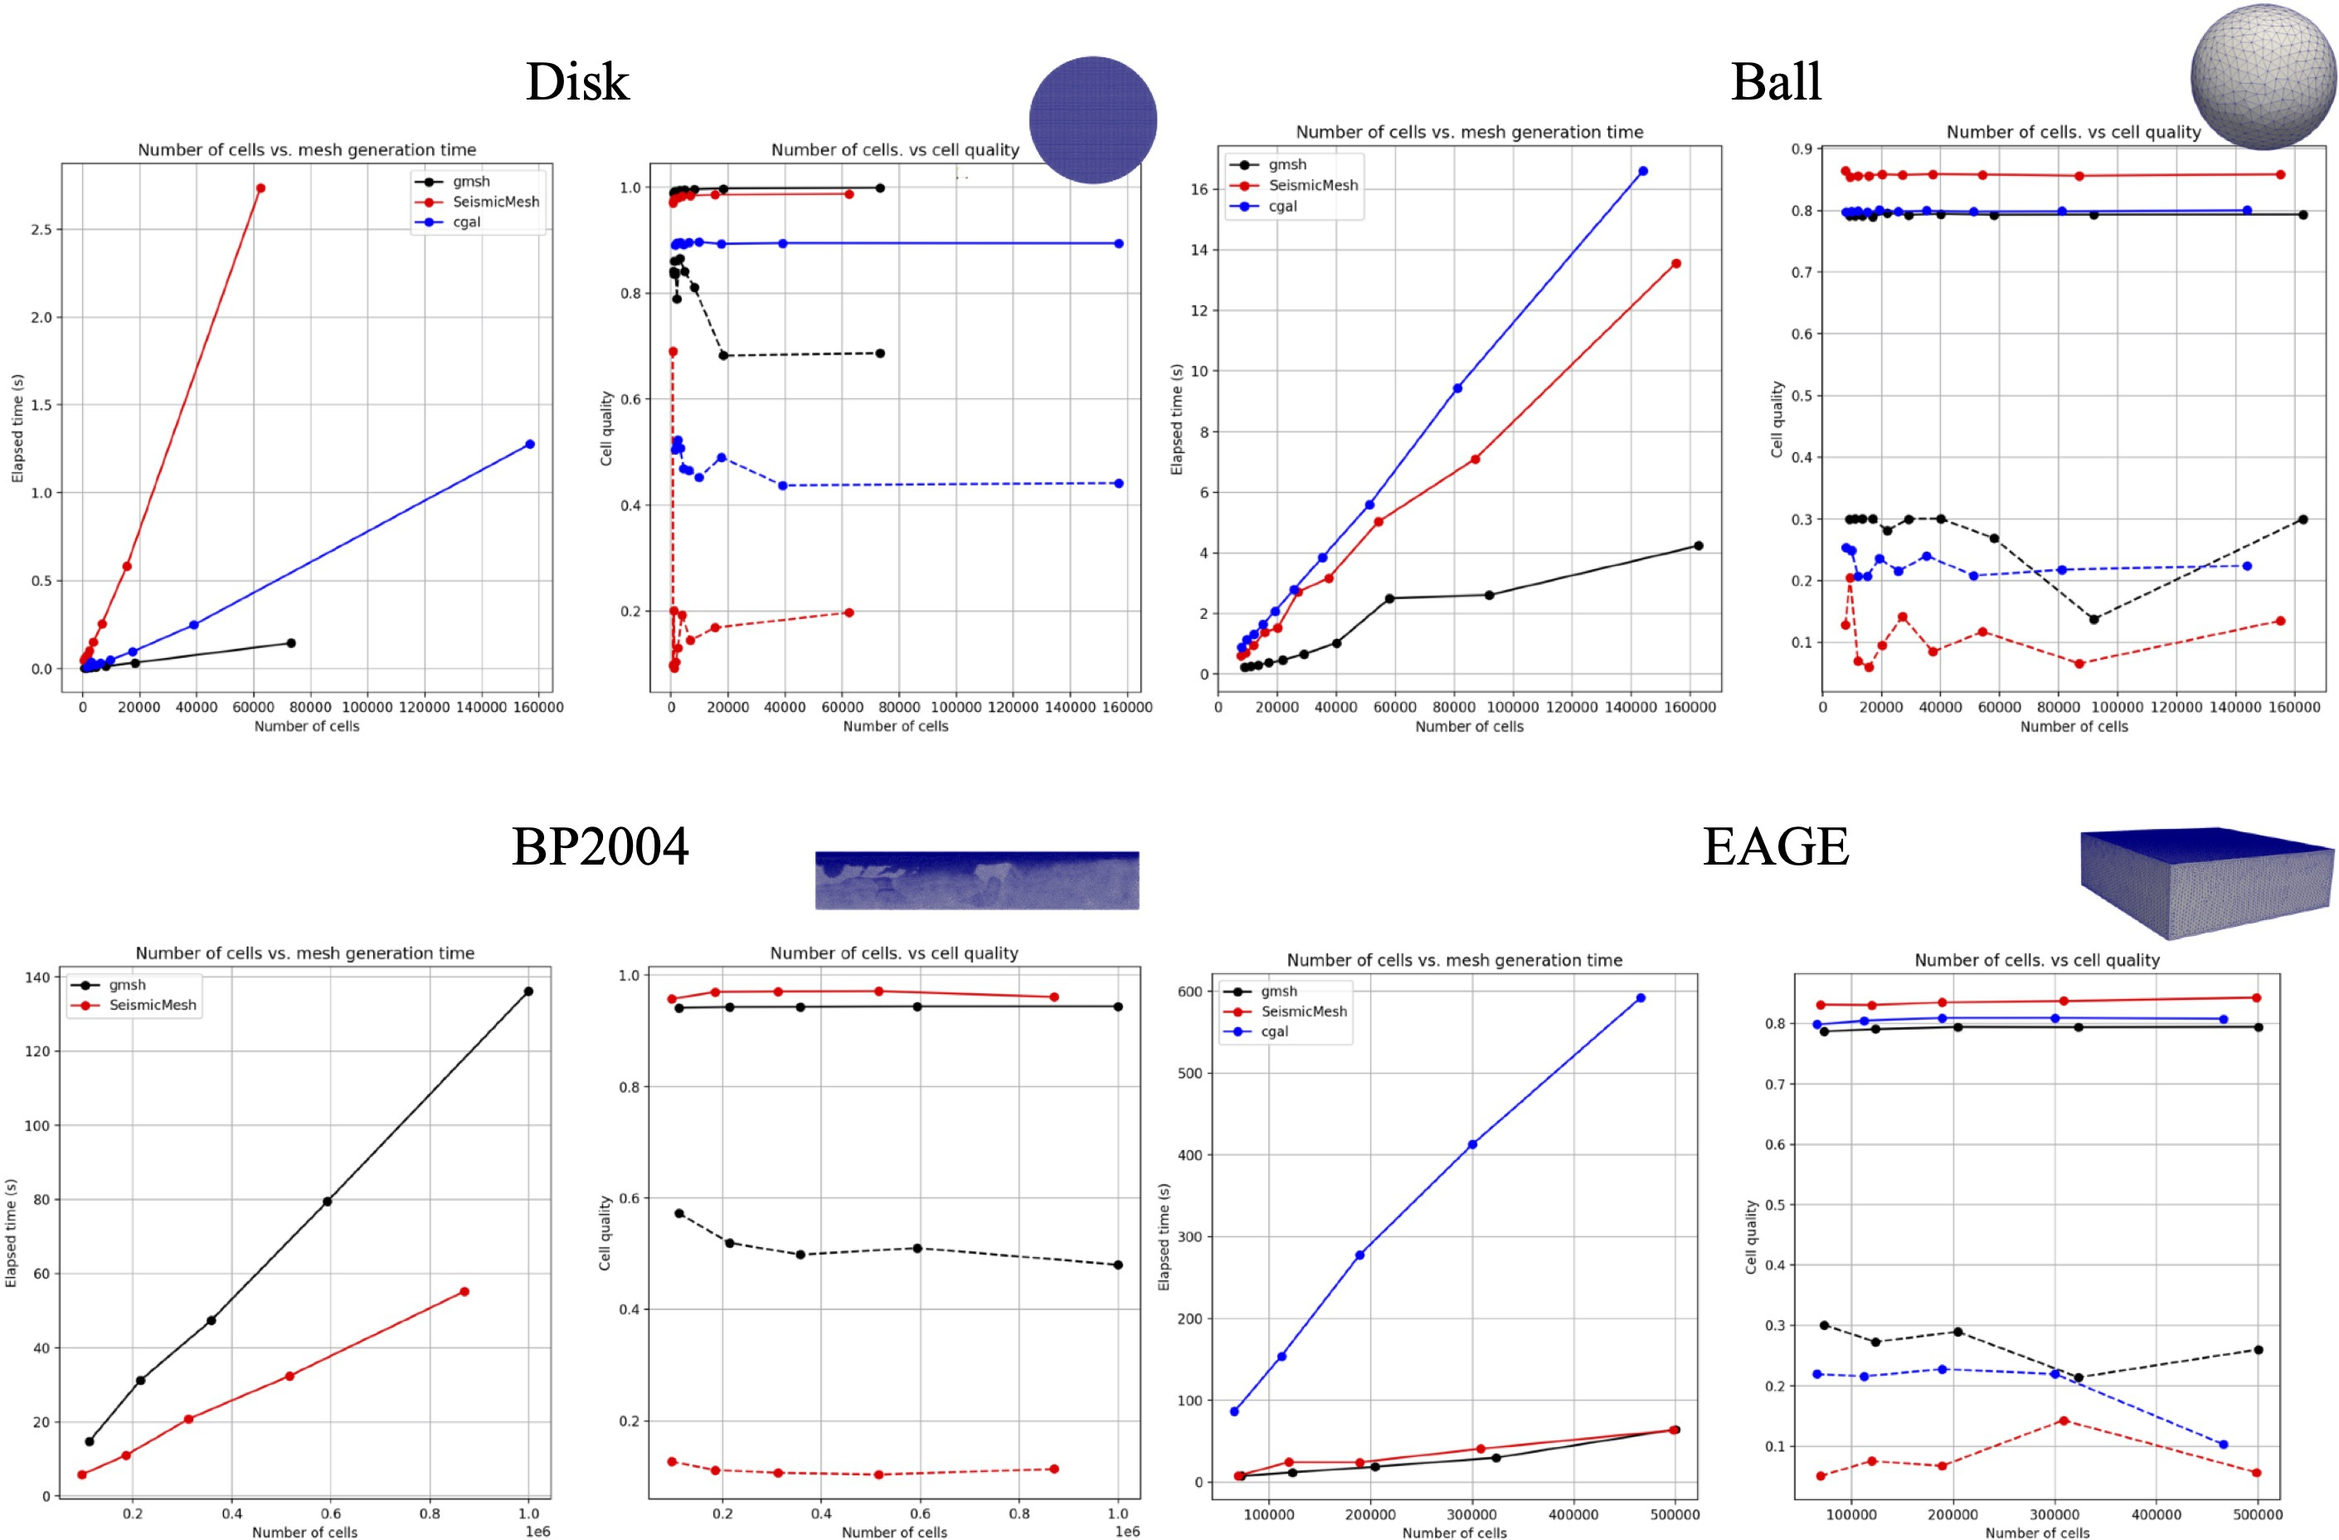
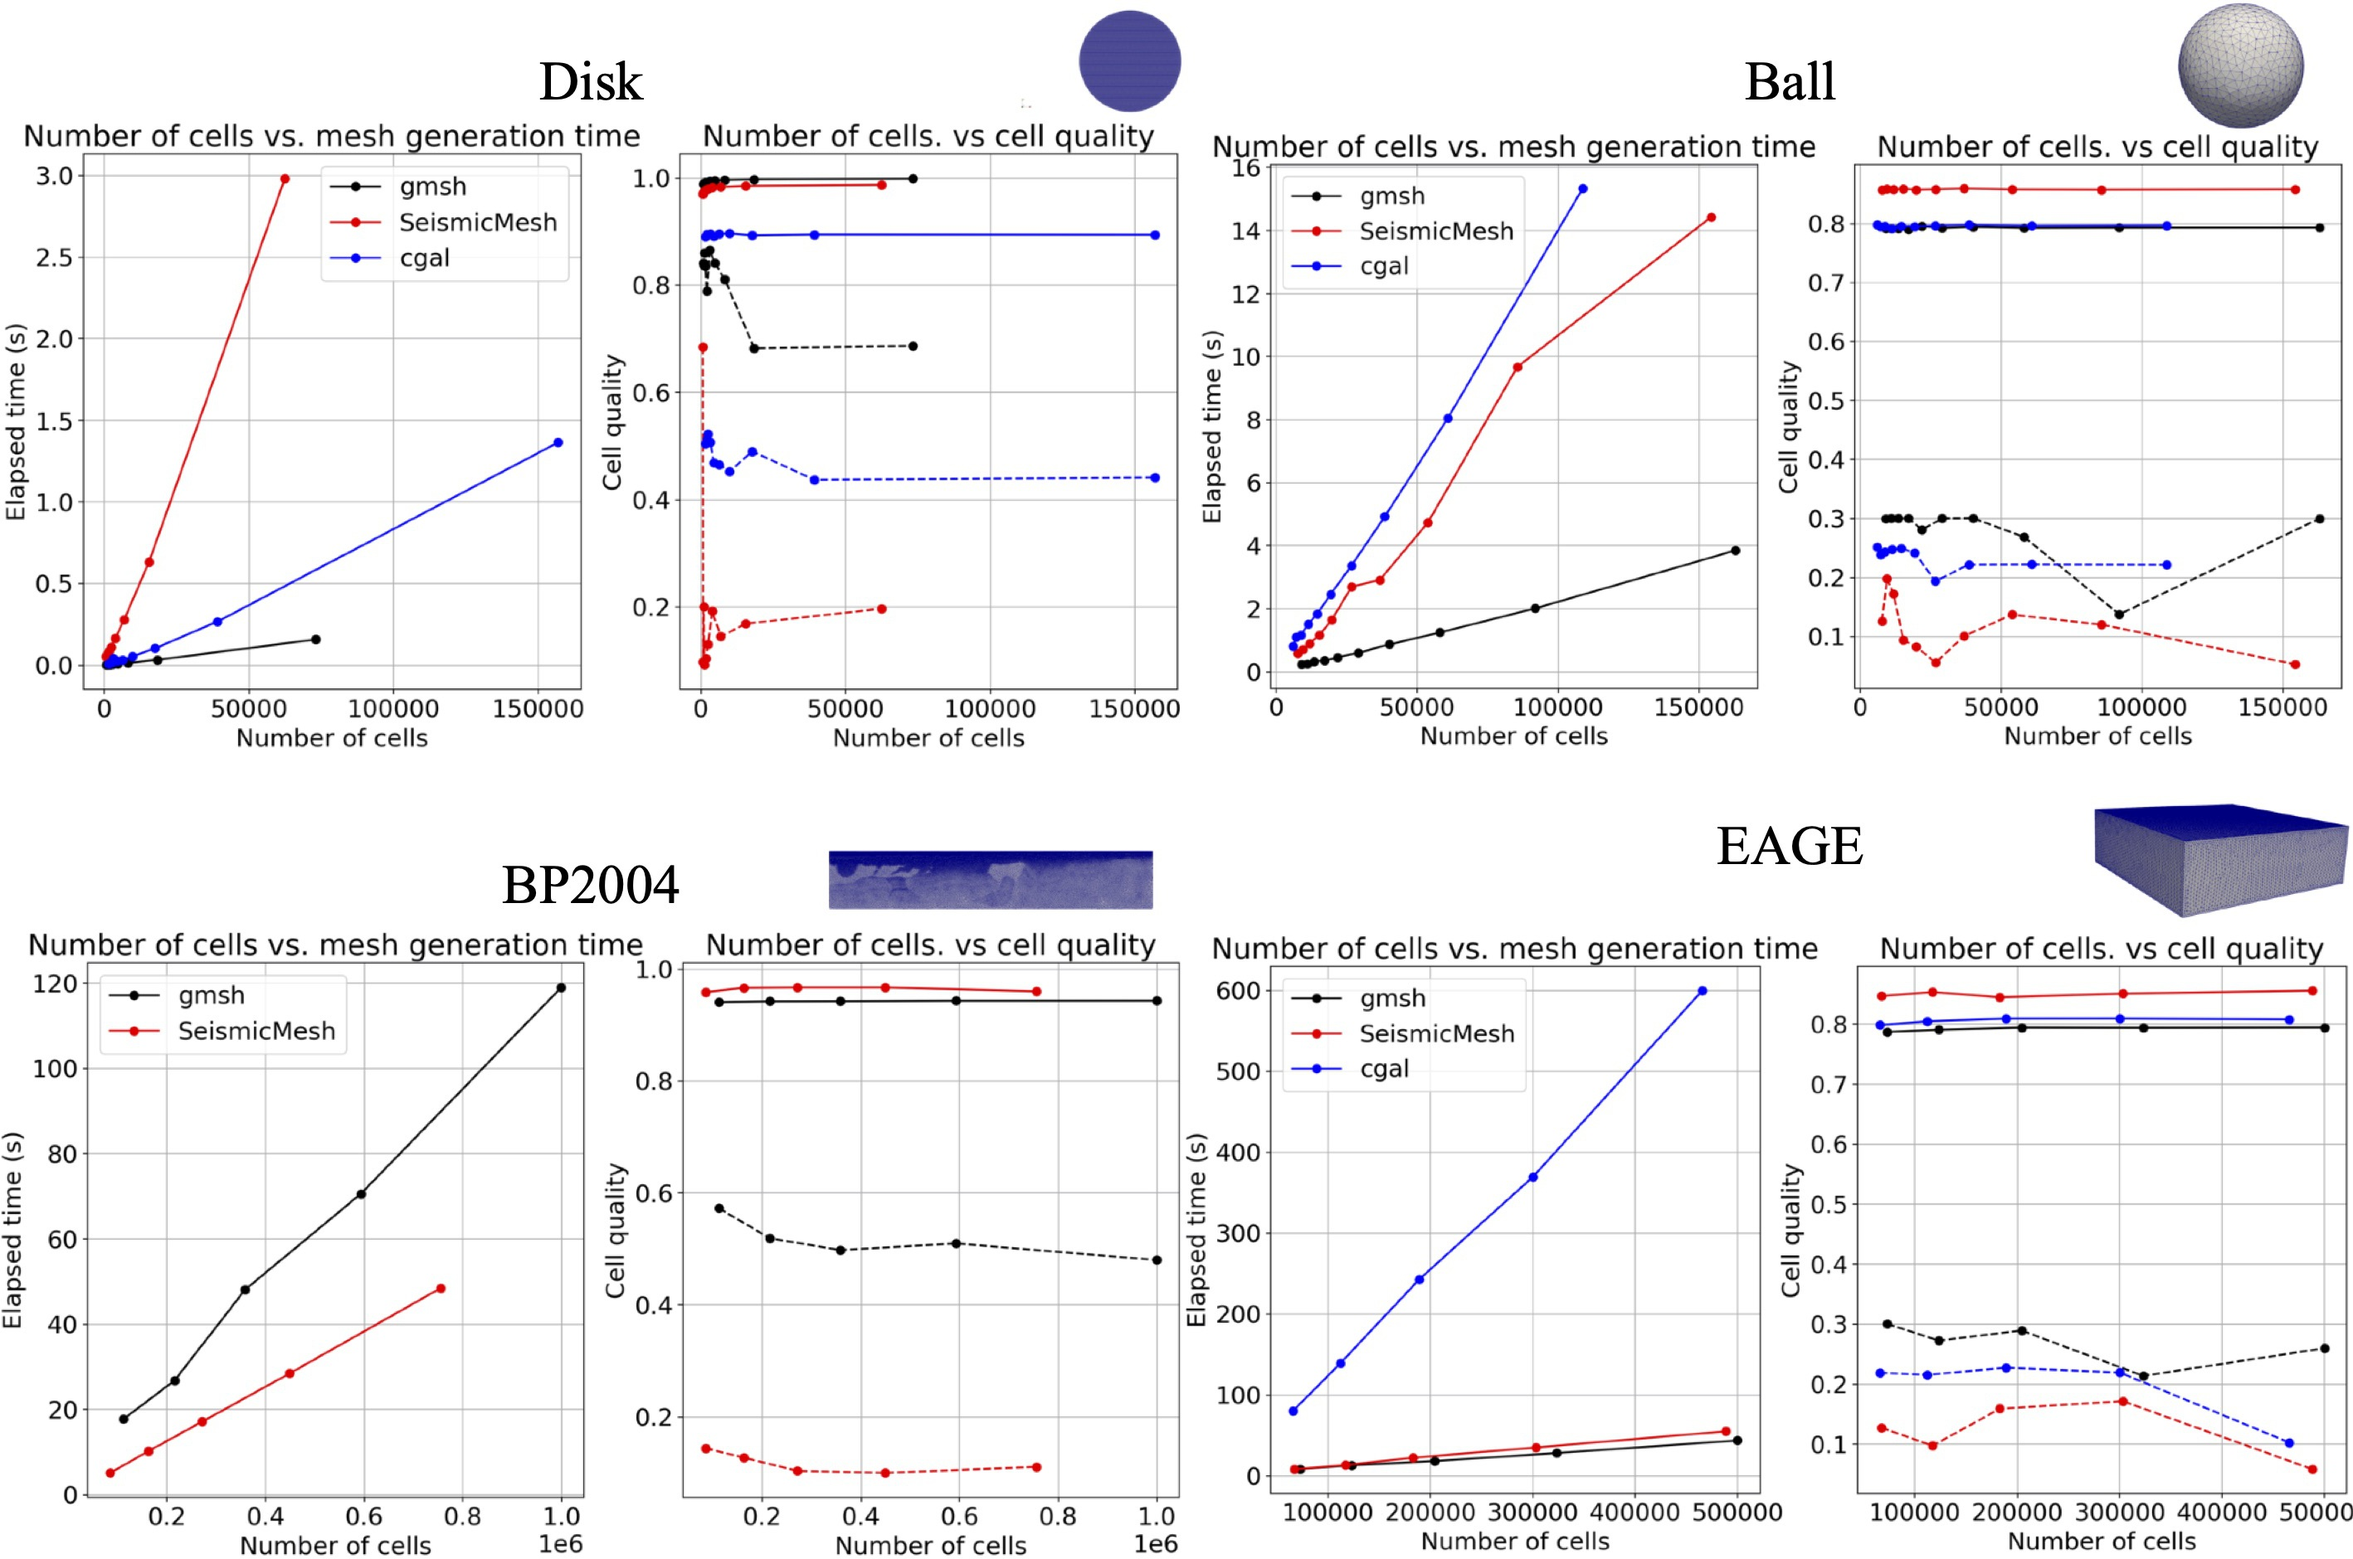
increase figure labels

diff --git a/benchmarks/run_disk.py b/benchmarks/run_disk.py
@@ -4,6 +4,9 @@ import numpy
 from benchmark_disk import run_gmsh, run_SeismicMesh, run_cgal
 
 
+plt.rcParams.update({'font.size': 18})
+
+
 colors1 = ["ko-", "ro-", "bo-"]
 colors2 = ["ko--", "ro--", "bo--"]
 labels = ["gmsh", "SeismicMesh", "cgal"]

diff --git a/benchmarks/benchmark_disk.py b/benchmarks/benchmark_disk.py
@@ -91,7 +91,7 @@ def run_SeismicMesh(HMIN=0.01):
 
     bbox = (-1.0, 1.0, -1.0, 1.0)
 
-    disk = SeismicMesh.geometry.Disk(0, 0, 1)
+    disk = SeismicMesh.geometry.Disk([0, 0], 1)
 
     def fh(x):
         return numpy.array([HMIN] * len(x))

diff --git a/benchmarks/run_EAGE.py b/benchmarks/run_EAGE.py
@@ -8,6 +8,8 @@ colors1 = ["ko-", "ro-", "bo-"]
 colors2 = ["ko--", "ro--", "bo--"]
 labels = ["gmsh", "SeismicMesh", "cgal"]
 
+plt.rcParams.update({"font.size": 18})
+
 entries = []
 # minimal mesh size
 rg = numpy.linspace(300, 150.0, 5)

diff --git a/benchmarks/run_ball.py b/benchmarks/run_ball.py
@@ -3,6 +3,7 @@ import matplotlib.pyplot as plt
 import numpy
 from benchmark_ball import run_gmsh, run_SeismicMesh, run_cgal
 
+plt.rcParams.update({"font.size": 18})
 
 colors1 = ["ko-", "ro-", "bo-"]
 colors2 = ["ko--", "ro--", "bo--"]

diff --git a/benchmarks/run_BP2004.py b/benchmarks/run_BP2004.py
@@ -8,6 +8,8 @@ colors1 = ["ko-", "ro-"]
 colors2 = ["ko--", "ro--"]
 labels = ["gmsh", "SeismicMesh"]
 
+plt.rcParams.update({"font.size": 18})
+
 entries = []
 # minimize mesh size
 rg = numpy.linspace(75.0, 25.0, 5)

diff --git a/paper/paper.md b/paper/paper.md
@@ -61,7 +61,7 @@ A simplified version of the parallel Delaunay algorithm proposed by [ @peterka20
 
 The 2D/3D serial performance against `gmsh` and `cgal` [@cgal:rty-m3-20b, @cgal:r-ctm2-20b] in terms of cell quality and creation time where cell quality is defined as dimension (2 or 3) multiplied by the circumcircle radius divided by the incircle radius. This cell quality is between 0 and 1, where 1 is a perfectly symmetrical simplex. For the analytical geometries (e.g. disk and ball) `gmsh` is the fastest to generate a mesh and then performance is approximately similar for both `SeismicMesh` and `cgal`. `gmsh` and `cgal` produce higher minimum cell qualities overall than `SeismicMesh` but importantly all generators are capable of producing sliver-free meshes. With that said, `SeismicMesh` produces higher mean cell qualities by about 5\% as compared to `gmsh` and `cgal`. For the two seismic meshes (e.g., BP2004 and EAGE), `SeismicMesh` is faster than `cgal` but slower than `gmsh` and the mesh quality similarly follows the results observed in the analytical cases. Interpolant-based mesh sizing functions significantly slow the mesh generation time of `gmsh` increasing its mesh generation time by a factor of 3x. The `DistMesh` algorithm used in `SeismicMesh` requires far less calls to the sizing function. For example in the EAGE benchmark, `gmsh` calls the sizing function 95,756 times whereas `DistMesh` calls it just 26 times.
 
-![The mesh creation time and resulting mesh quality for four benchmark problems studied over a range of problem sizes. Two analytical problems (disk and a ball) and two non-analytical problems with sizing functions defined via regular gridded interpolants (BP2004 and EAGE). See the `SeismicMesh` github repository for information regarding the benchmarks. \label{fig:benchmark}](Benchmarks.jpg)
+![The mesh creation time and resulting mesh quality for four benchmark problems studied over a range of problem sizes. Two analytical problems (disk and a ball) and two non-analytical problems with sizing functions defined via regular gridded interpolants (BP2004 and EAGE). For the panels that show cell quality, solid lines indicate the mean and dashed lines indicate the minimum cell quality in the mesh. See the `SeismicMesh` github repository for information regarding the benchmarks. \label{fig:benchmark}](Benchmarks.jpg)
 
 
 # Ongoing and future applications
